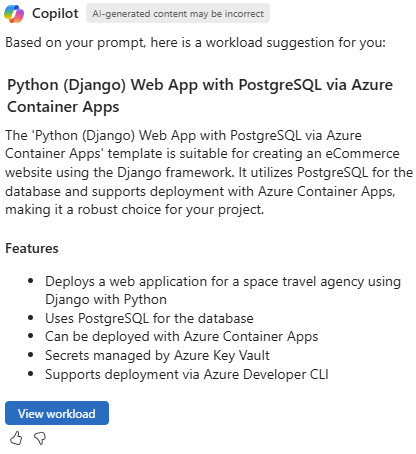
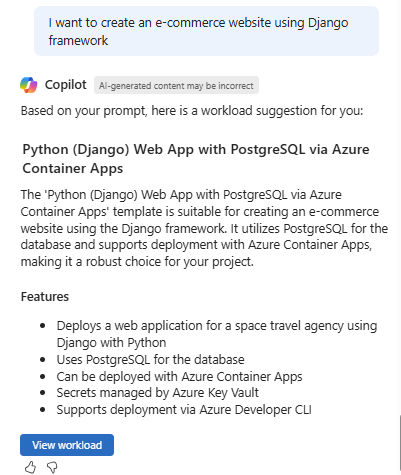
small fixes

diff --git a/articles/copilot/work-aks-clusters.md b/articles/copilot/work-aks-clusters.md
@@ -48,7 +48,7 @@ Here are a few examples of the kinds of prompts you can use to run kubectl comma
 
 You can say **"List all namespaces in my cluster."** Copilot in Azure shows you the kubectl command to perform your request, and ask if you'd like to execute the command. If you're not already working in the context of a cluster, you're prompted to select one.  When you confirm, the **Run command** pane opens with the generated command included.
 
-:::image type="content" source="media/work-aks-clusters/aks-kubectl-command.png" alt-text="Screenshot of a prompt for Microsoft Copilot in Azure to run a kubectl command.":::
+:::image type="content" source="media/work-aks-clusters/aks-kubectl-command.png" lightbox="media/work-aks-clusters/aks-kubectl-command.png" alt-text="Screenshot of a prompt for Microsoft Copilot in Azure to run a kubectl command.":::
 
 ## Start and stop node pools
 
@@ -219,7 +219,7 @@ Copilot in Azure can help troubleshoot issues with your AKS clusters. When you a
 
 ### Troubleshooting example
 
-If you say "**diagnose my AKS cluster node health**, Copilot in Azure asks you to confirm the cluster name and a timeframe to review. After that, any potential issues are shown, along with links to get more details about an issue. If no problems are found, Copilot in Azure shows details about cluster health and links to helpful information.
+If you say "**diagnose my AKS cluster node health**", Copilot in Azure asks you to confirm the cluster name and a timeframe to review. After that, any potential issues are shown, along with links to get more details about an issue. If no problems are found, Copilot in Azure shows details about cluster health and links to helpful information.
 
 :::image type="content" source="media/work-aks-clusters/aks-diagnose-cluster-health.png" alt-text="Screenshot of Copilot in Azure checking the health of an AKS cluster.":::
 

diff --git a/articles/copilot/deploy-workload-templates.md b/articles/copilot/deploy-workload-templates.md
@@ -33,7 +33,7 @@ Here are a few examples of the kinds of prompts you can use to discover and depl
 
 ## Examples
 
-To create an ecommerce website using Django framework, you can say **"I want to create an ecommerce website using Django framework."** Copilot in Azure shows a recommendation with a link to the GitHub repository that you can use to run the Azure Development CLI (`azd`) template.
+To create an e-commerce website using Django framework, you can say **"I want to create an e-commerce website using Django framework."** Copilot in Azure shows a recommendation with a link to the GitHub repository that you can use to run the Azure Development CLI (`azd`) template.
 
 > [!TIP]
 > For information on using `azd` templates, see [What is the Azure Developer CLI?](/azure/developer/azure-developer-cli/overview?tabs=windows)
